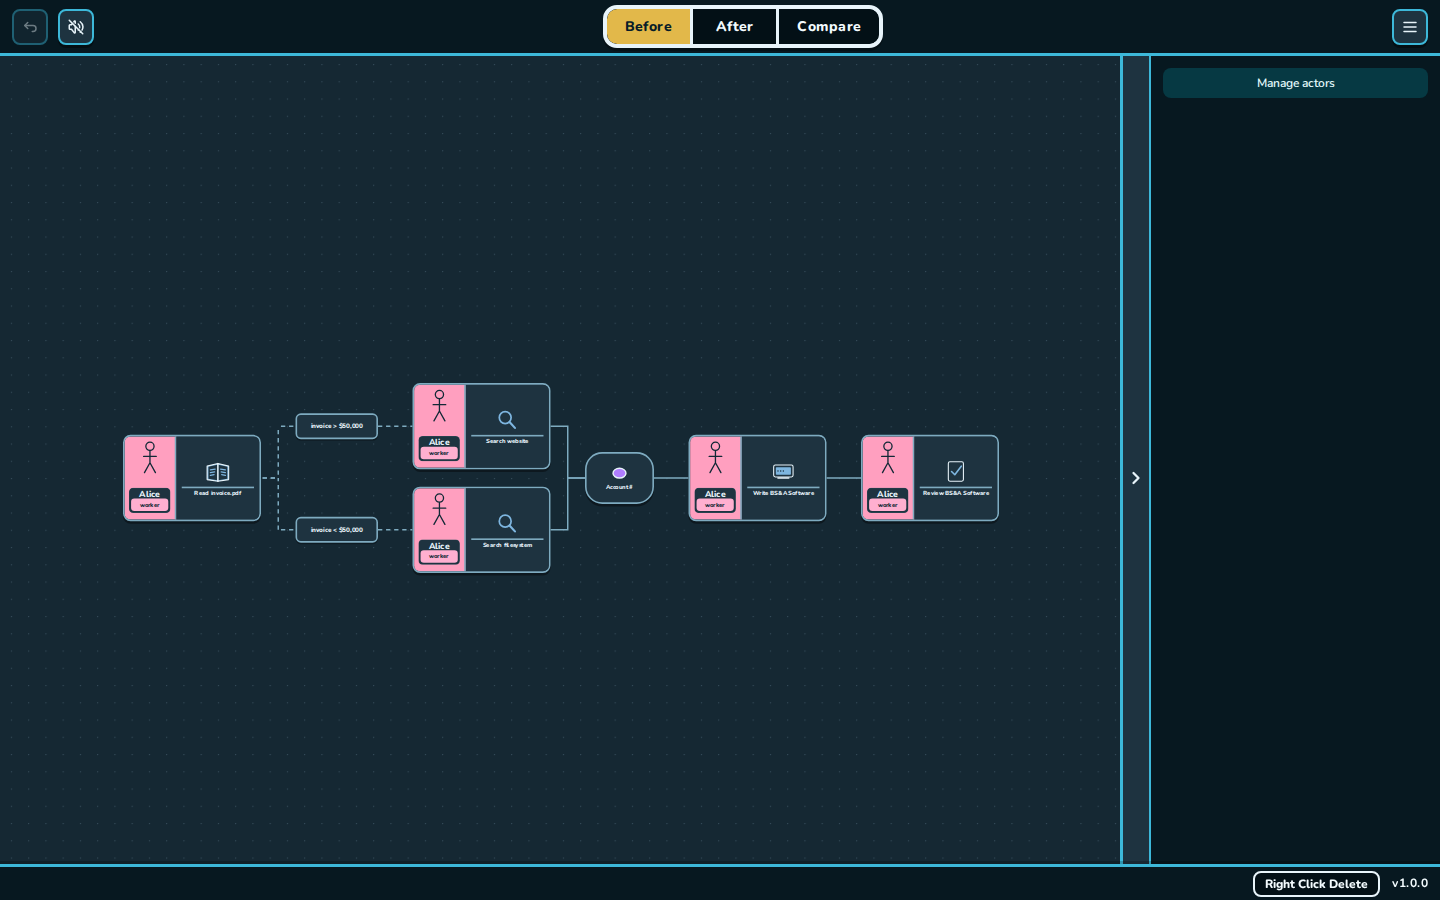
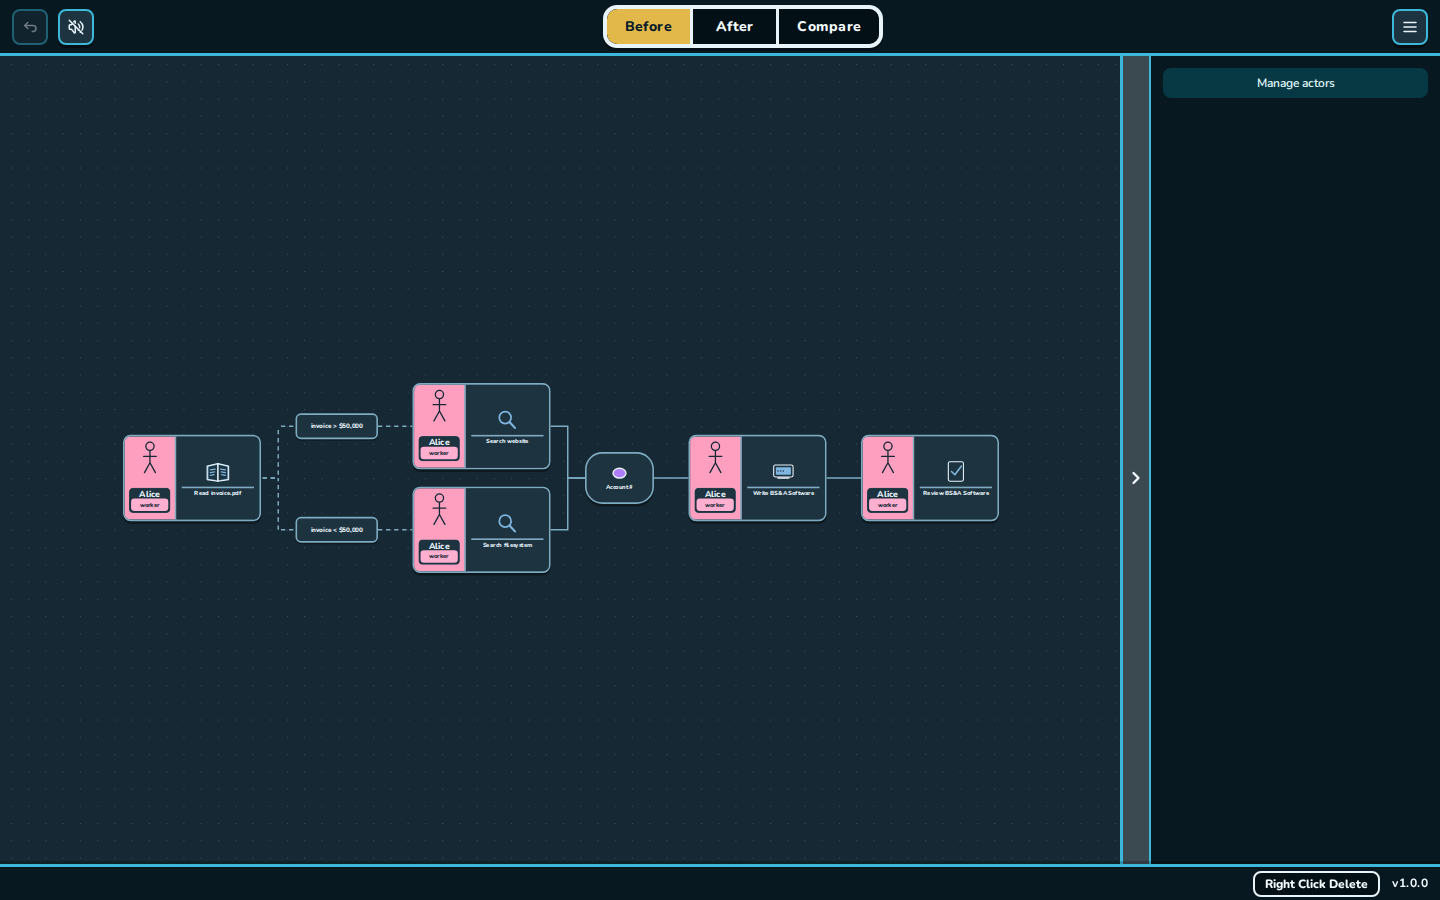
feat(improve-28): soften inspector fold hover
Cream on the drawer › strip was a harsh flash and hard to read. Hover now lifts in steel with the ice chevron, and the blue focus ring is gone.

Changed region(s): [[0.7812, 0.0622, 0.8125, 0.9644]]

diff --git a/e2e/improve-28-fold-hover.spec.ts b/e2e/improve-28-fold-hover.spec.ts
@@ -2,43 +2,55 @@ import { expect, test } from "@playwright/test";
 import { capturePage, loadOakPark } from "./ready";
 
 const EVIDENCE = ".docs/evidence/improve-28-fold-hover";
+const STEEL_LIGHT = "rgb(63, 95, 113)";
+const STEEL_DARK = "rgb(59, 74, 81)";
 const CREAM_LIGHT = "rgb(247, 252, 254)";
-const INK_LIGHT = "rgb(7, 28, 40)";
 const YELLOW_LIGHT = "rgb(232, 193, 74)";
 const CREAM_DARK = "rgb(30, 51, 64)";
-const INK_DARK = "rgb(232, 244, 250)";
 const YELLOW_DARK = "rgb(226, 184, 74)";
+const ICE = "rgb(243, 251, 254)";
+const BLUE_LIGHT = "rgb(26, 143, 212)";
+const BLUE_DARK = "rgb(126, 182, 224)";
+
+async function expectSteelHover(
+  fold: import("@playwright/test").Locator,
+  steel: string,
+  cream: string,
+  yellow: string,
+) {
+  await fold.hover();
+  await expect(fold).toHaveCSS("background-color", steel);
+  await expect(fold).not.toHaveCSS("background-color", cream);
+  await expect(fold).not.toHaveCSS("background-color", yellow);
+  await expect(fold).toHaveCSS("color", ICE);
+  await expect(fold).toHaveCSS("outline-style", "none");
+}
 
 test.describe("Improvement 28 correction — inspector fold hover", () => {
-  test("Hide inspector hover is cream and ink, not yellow", async ({ page }) => {
+  test("Hide inspector hover is a steel lift, not cream yellow or blue", async ({ page }) => {
     await loadOakPark(page);
     const fold = page.getByRole("button", { name: "Hide inspector" });
     await expect(fold).toBeVisible();
-    await fold.hover();
-    await expect(fold).toHaveCSS("background-color", CREAM_LIGHT);
-    await expect(fold).toHaveCSS("color", INK_LIGHT);
-    await expect(fold).not.toHaveCSS("background-color", YELLOW_LIGHT);
+    await expectSteelHover(fold, STEEL_LIGHT, CREAM_LIGHT, YELLOW_LIGHT);
     await capturePage(page, `${EVIDENCE}/fold-hover-open-1440.png`);
 
     await fold.click();
     const show = page.getByRole("button", { name: "Show inspector" });
     await expect(show).toBeVisible();
-    await show.hover();
-    await expect(show).toHaveCSS("background-color", CREAM_LIGHT);
-    await expect(show).not.toHaveCSS("background-color", YELLOW_LIGHT);
+    await expectSteelHover(show, STEEL_LIGHT, CREAM_LIGHT, YELLOW_LIGHT);
     await capturePage(page, `${EVIDENCE}/fold-hover-collapsed-1440.png`);
   });
 
-  test("fold hover in dark is cream and ink, not yellow", async ({ page }) => {
+  test("fold hover in dark stays steel, not cream yellow or blue", async ({ page }) => {
     await loadOakPark(page);
     await page.getByRole("button", { name: "Menu" }).click();
     await page.getByRole("menuitem", { name: "Dark mode" }).click();
     await expect(page.locator("html")).toHaveAttribute("data-theme", "dark");
     const fold = page.getByRole("button", { name: "Hide inspector" });
-    await fold.hover();
-    await expect(fold).toHaveCSS("background-color", CREAM_DARK);
-    await expect(fold).toHaveCSS("color", INK_DARK);
-    await expect(fold).not.toHaveCSS("background-color", YELLOW_DARK);
+    await expectSteelHover(fold, STEEL_DARK, CREAM_DARK, YELLOW_DARK);
+    const outline = await fold.evaluate((el) => getComputedStyle(el).outlineColor);
+    expect(outline).not.toBe(BLUE_DARK);
+    expect(outline).not.toBe(BLUE_LIGHT);
     await capturePage(page, `${EVIDENCE}/fold-hover-dark-1440.png`);
   });
 });

diff --git a/src/app/inspector/inspectorFold.css b/src/app/inspector/inspectorFold.css
@@ -42,16 +42,24 @@
   display: flex;
   align-items: center;
   justify-content: center;
+  transition: background-color 120ms ease, box-shadow 120ms ease;
 }
 
-.inspector-fold:hover {
-  background: var(--cream);
-  color: var(--ink);
+/* Steel lift, not cream/yellow/blue. Ice mixed into chrome so it reads on paper and on the rail. */
+.inspector-fold:hover,
+.inspector-fold:focus-visible {
+  background: #3f5f71;
+  color: var(--chrome-ink);
+  outline: none;
+}
+
+:root[data-theme="dark"] .inspector-fold:hover,
+:root[data-theme="dark"] .inspector-fold:focus-visible {
+  background: #3b4a51;
 }
 
 .inspector-fold:focus-visible {
-  outline: 3px solid var(--blue);
-  outline-offset: -3px;
+  box-shadow: inset 0 0 0 3px var(--ink);
 }
 
 .details-rail-body {
@@ -88,5 +96,9 @@
 @media (prefers-reduced-motion: reduce) {
   .app-shell-fold aside {
     transition: none !important;
+  }
+
+  .inspector-fold {
+    transition: none;
   }
 }

diff --git a/.docs/handoff.md b/.docs/handoff.md
@@ -1817,3 +1817,14 @@ Corrections in the same chat before the next slice starts get their own short en
 - Status: COMPLETE
 - Commit: `feat(improve-30): put Right Click Delete on the right`
 
+## Improvement 28 — correction 2 — 2026-09-08
+
+- Requested: Cream fold hover is too harsh and hard to see; drop the blue outlines.
+- Changed: Fold hover/focus fill is steel (`#3f5f71` / `#3b4a51`), ice chevron, 120ms ease, `outline: none`. Keyboard `:focus-visible` uses a 3px ink inset, not blue. Not yellow, not cream.
+- Tests and exact results:
+  - `npm run test:e2e` — `e2e/improve-28-fold-hover.spec.ts` pass (2). Port 4204. Chromium via `LD_LIBRARY_PATH` `~/.local/pw-libs`.
+- Evidence: `.docs/evidence/improve-28-fold-hover/` recaptured (open, collapsed, dark).
+- Status: COMPLETE
+- Commit: `feat(improve-28): soften inspector fold hover`
+
+

diff --git a/.docs/IMPROVEMENTS.md b/.docs/IMPROVEMENTS.md
@@ -617,6 +617,8 @@ Evidence: `.docs/evidence/improve-28-who-select/`.
 
 Correction 1 (2026-09-08): the yellow the user wanted gone is the **inspector fold › / ‹ hover**, not the actor cards. Hover is cream + ink. Evidence: `.docs/evidence/improve-28-fold-hover/`.
 
+Correction 2 (2026-09-08): cream hover was too harsh and hard to see; the blue focus ring is gone. Hover is a steel lift (`#3f5f71` light, `#3b4a51` dark) with the ice chevron. Keyboard focus uses an ink inset, not a blue outline.
+
 ---
 
 # Improvement 30 — Right Click Delete on the right
